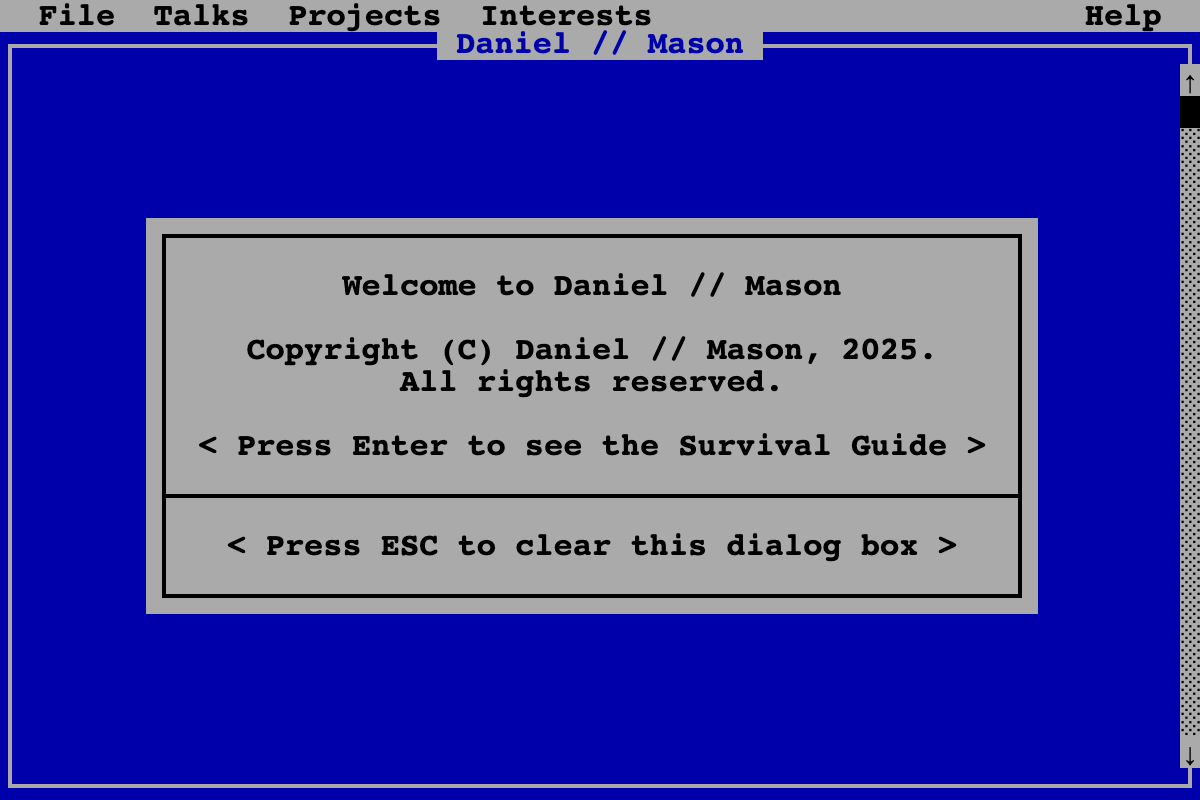
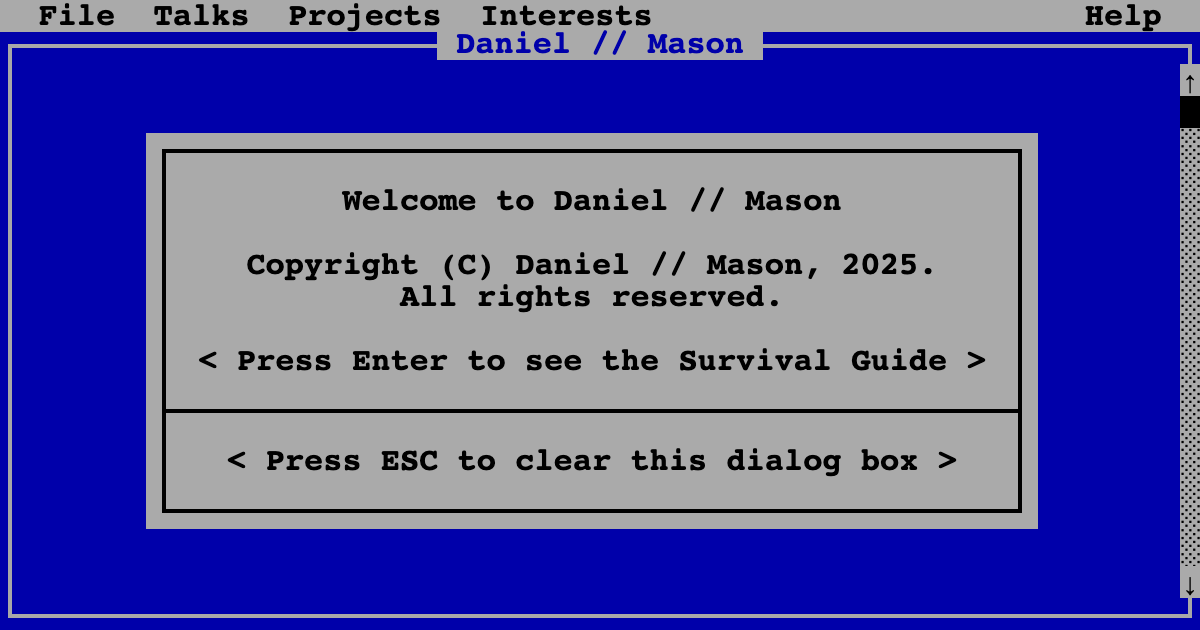
feat: update and improve social tags

Changed region(s): [[0.1233, 0.5429, 0.8633, 0.8444], [0.1233, 0.2111, 0.8633, 0.5127], [0.0, 0.0, 1.0, 0.9952]]

diff --git a/src/components/page.rs b/src/components/page.rs
@@ -1,6 +1,5 @@
 use crate::components::{HamburgerContainer, Open, Scrollbar, Title};
 use crate::utils::make_string_safe;
-use dioxus::html::meta::property;
 use dioxus::prelude::*;
 
 const FAVICON: Asset = asset!("/assets/favicon.ico");
@@ -30,6 +29,8 @@ pub fn Page(title: String, children: Element) -> Element {
     let safe_title = make_string_safe(&title);
     let id = format!("page-{safe_title}",);
     let web_title = create_website_title(&title);
+    let social_description =
+        "Learn about the awesomeness that is Daniel // Mason, his projects and presentations";
 
     rsx! {
         document::Link { rel: "icon", href: FAVICON }
@@ -38,7 +39,12 @@ pub fn Page(title: String, children: Element) -> Element {
         document::Title { "{web_title}" }
         document::Meta { property: "og:title", content: "{web_title}" }
         document::Meta { property: "og:image", content: "https://danielmason.com{SOCIAL_PREVIEW}" }
+        document::Meta { property: "og:description", content: "{social_description}" }
+        document::Meta { property: "og:site_name", content: "Daniel // Mason" }
+        document::Meta { property: "twitter:title", content: "{web_title}" }
         document::Meta { property: "twitter:card", content: "summary_large_image" }
+        document::Meta { property: "twitter:description", content: "{social_description}" }
+        document::Meta { property: "twitter:image:alt", content: "Preview of danielmason.com" }
 
         HamburgerContainer { }
         article {
